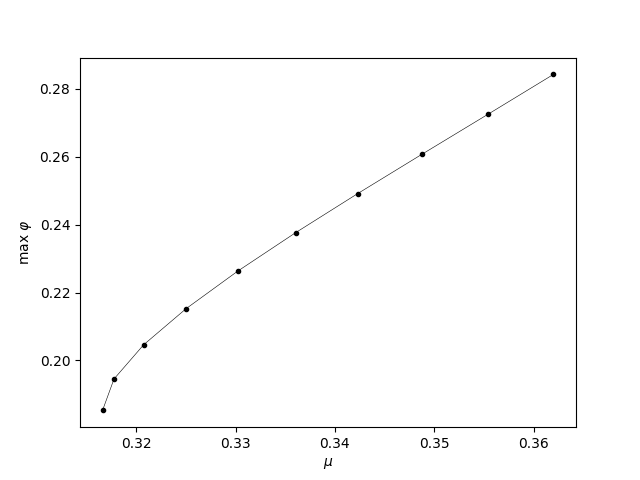
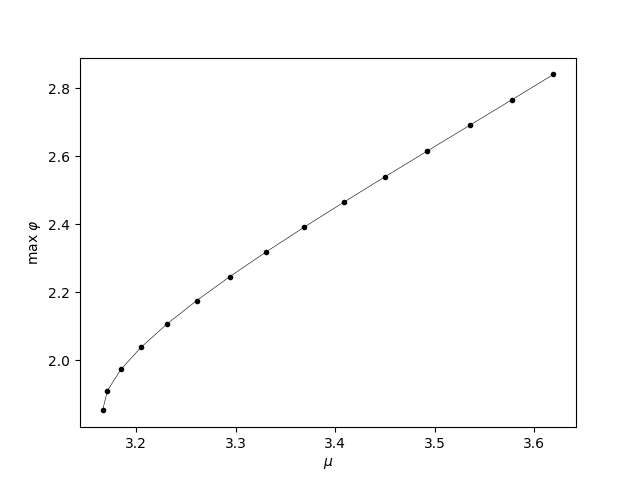
added shaky code for DP-CH interpolation bifurcation

diff --git a/bifurcation_CH_DP.py b/bifurcation_CH_DP.py
@@ -1,0 +1,94 @@
+import numpy as np
+from scipy import optimize
+import matplotlib.pyplot as plt
+
+
+def func_guess(X, height, P):
+    return height * np.cos(((2 * np.pi) / P) * X)
+
+
+def bessel_symbol(Xi, s):
+    return (1 + Xi ** 2) ** (-s / 2)
+
+
+def homog_symbol(Xi, r):
+    return (1j * Xi) ** r
+
+
+def const_sol(mu, int_const):
+    return (mu + np.sqrt(mu ** 2 + 6 * int_const)) / 3
+
+
+def upper_bound_P(s):
+    return (2 * np.pi) / np.sqrt(4 ** (2 / s) - 1)
+
+
+def DP_CH_system(sol, height, P, s, r, symb_coeffs, homog_symb_coeffs, int_const):
+    phi, mu = sol[:-1], sol[-1]
+    gamma = const_sol(mu, int_const)
+    phi_coeffs = np.fft.rfft(phi)
+    phi_squared_coeffs = np.fft.rfft(phi ** 2)
+    mod_phi_coeffs = np.multiply(phi_coeffs, symb_coeffs)
+    mod_phi_squared_coeffs = np.multiply(phi_squared_coeffs, symb_coeffs)
+    frac_der_phi = np.fft.irfft(np.multiply(phi_coeffs, homog_symb_coeffs))
+    frac_der_phi_squared_coeffs = np.fft.rfft(frac_der_phi ** 2)
+
+    eq_err = (
+        (gamma - mu) * phi
+        - (1 / 2) * phi ** 2
+        - np.fft.irfft(mod_phi_squared_coeffs)
+        + 2 * gamma * np.fft.irfft(mod_phi_coeffs)
+        - (1 / 2) * np.fft.irfft(np.multiply(symb_coeffs, frac_der_phi_squared_coeffs))
+    )
+    height_err = np.array([np.abs(height - phi[(len(phi) // 2) + 1])])
+    return np.concatenate((eq_err, height_err))
+
+
+if __name__ == "__main__":
+    s = 2
+    r = 0.1
+    P = 0.5 * upper_bound_P(s)
+    N = 500
+    X = np.linspace(-P / 2, P / 2, N, endpoint=False)
+    int_const = 1
+    samples = 10
+
+    impl_bif_point = lambda mu: (
+        3 * const_sol(mu, int_const) * bessel_symbol((2 * np.pi) / P, s)
+    ) - (mu - const_sol(mu, int_const))
+
+    bif_point = optimize.fsolve(impl_bif_point, 1)[0]
+    frequencies = np.array([(2 * np.pi * k) / P for k in range(0, (N // 2) + 1)])
+    symb_coeffs = bessel_symbol(frequencies, s)
+    homog_symb_coeffs = homog_symbol(frequencies, r)
+
+    min_height = const_sol(bif_point, int_const) - bif_point
+    H = np.linspace(0, 0.5 * min_height, samples)
+    wavespeeds, max_heights = np.zeros(samples), np.zeros(samples)
+    wavespeed_guess = np.array([bif_point])
+
+    for i in range(0, samples):
+        phi_guess = func_guess(X, H[i], P)
+        F = lambda sol: DP_CH_system(
+            sol, H[i], P, s, r, symb_coeffs, homog_symb_coeffs, int_const
+        )
+        solution = optimize.fsolve(
+            F, np.concatenate((phi_guess, wavespeed_guess)), xtol=1e-5
+        )
+        varphi = const_sol(solution[-1], int_const) - solution[:-1]
+        wavespeeds[i] = solution[-1]
+        max_heights[i] = np.max(varphi)
+        wavespeed_guess = np.array([solution[-1]]) + 0.5
+        plt.plot(X, varphi, "k", linewidth=0.7)
+
+    plt.ylabel(r"$\varphi (x)$")
+    plt.xlabel(r"$x$")
+    plt.show()
+
+    plt.plot(wavespeeds, max_heights, "k", linewidth=0.4)
+    plt.plot(wavespeeds, max_heights, "k.", linewidth=0.7)
+    plt.plot(wavespeeds, wavespeeds, "r")
+    plt.xlabel(r"$\mu$")
+    plt.ylabel(r"$\max \ \varphi$")
+    plt.plot(wavespeeds, const_sol(wavespeeds, int_const), "b")
+    plt.show()
